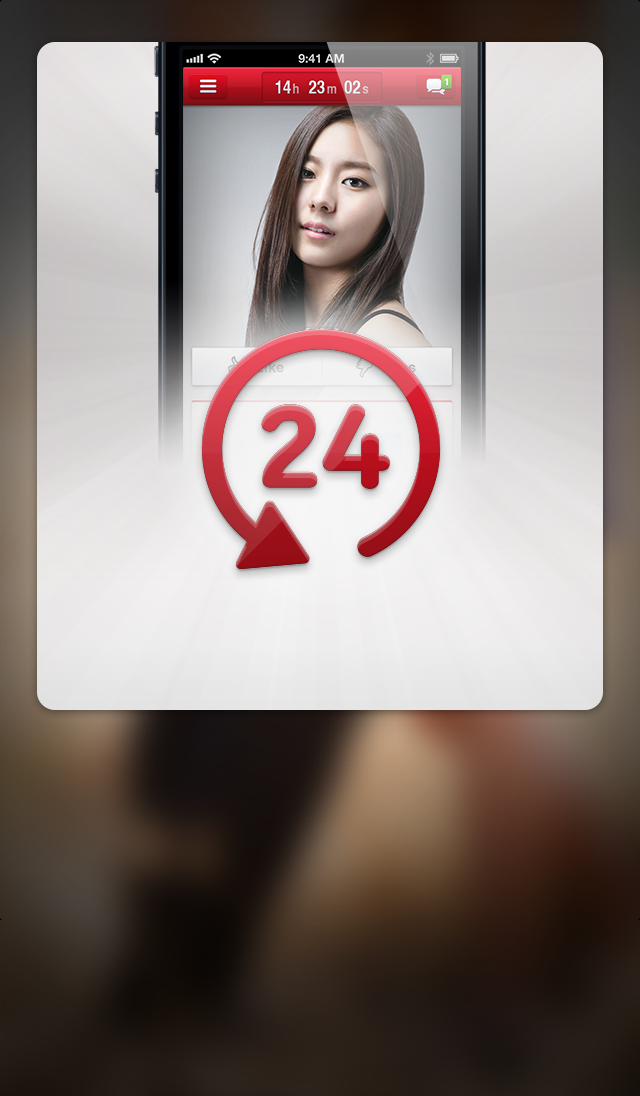
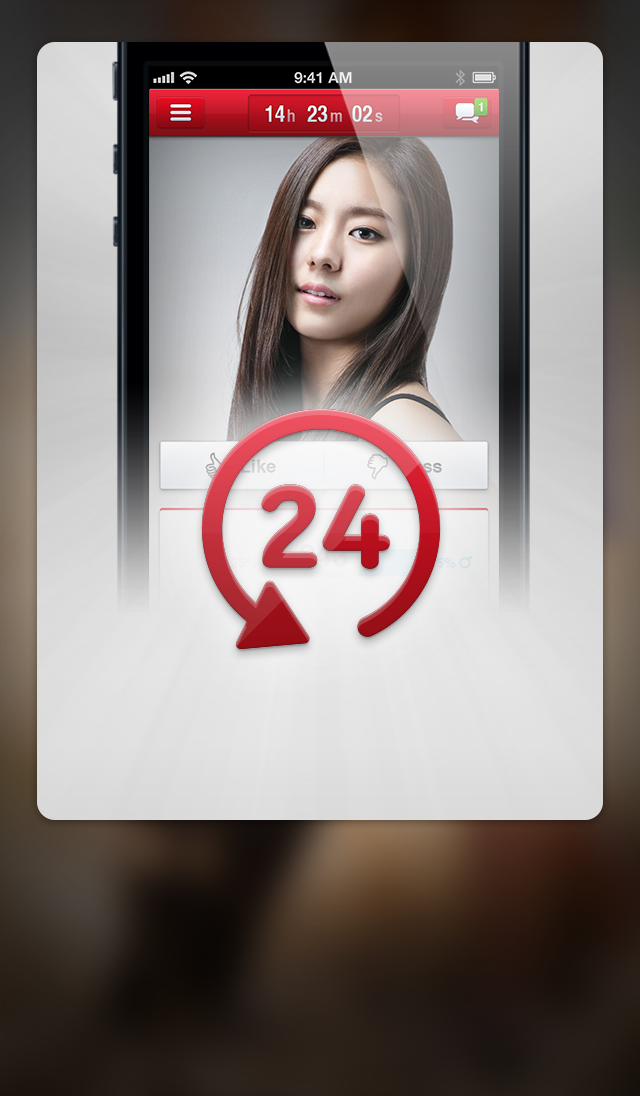
onboarding iphone5 supported

diff --git a/Resources/ui/handheld/Mn_LoginOnBoarding2View.js b/Resources/ui/handheld/Mn_LoginOnBoarding2View.js
@@ -1,5 +1,10 @@
 LoginOnBoarding2View = function() {
 
+	var iphone5Flag = false;
+	if(Ti.Platform.displayCaps.platformHeight === 568) { //iphone 5
+		iphone5Flag = true;
+	}
+	
 	//create component instance
 	var self = Ti.UI.createImageView({
 		left: 0, 
@@ -8,10 +13,15 @@ LoginOnBoarding2View = function() {
 		image: 'images/onboarding-2.png',
 		zIndex: 0,
 	});
-		
+
+	var descriptionYPos = 315;
+	if(iphone5Flag) {
+		descriptionYPos = 355;
+	}
+			
 	var description = Ti.UI.createLabel({
 		text: L('Get a new match every day'),
-		center: {x:'50%', y:315}, //x:67
+		center: {x:'50%', y:descriptionYPos}, //x:67
 		color: '#4e5866',
 		font:{fontWeight:'bold',fontSize:20},
 		zIndex:3,

diff --git a/Resources/ui/handheld/Mn_LoginOnBoarding5View.js b/Resources/ui/handheld/Mn_LoginOnBoarding5View.js
@@ -1,5 +1,10 @@
 LoginOnBoarding5View = function() {
 	
+	var iphone5Flag = false;
+	if(Ti.Platform.displayCaps.platformHeight === 568) { //iphone 5
+		iphone5Flag = true;
+	}
+		
 	//create component instance
 	var self = Ti.UI.createImageView({
 		left: 0, 
@@ -8,10 +13,15 @@ LoginOnBoarding5View = function() {
 		image: 'images/onboarding-5.png',
 		zIndex: 0,
 	});
-		
+
+	var descriptionYPos = 315;
+	if(iphone5Flag) {
+		descriptionYPos = 355;
+	}
+
 	var description = Ti.UI.createLabel({
 		text: L('Chat anonymously'),
-		center: {x:'50%', y:315}, //x:67
+		center: {x:'50%', y:descriptionYPos}, //x:67
 		color: '#4e5866',
 		font:{fontWeight:'bold',fontSize:20},
 		zIndex:3,

diff --git a/Resources/ui/handheld/Mn_LoginOnBoarding3View.js b/Resources/ui/handheld/Mn_LoginOnBoarding3View.js
@@ -13,11 +13,10 @@ LoginOnBoarding3View = function() {
 		image: 'images/onboarding-3.png',
 		zIndex: 0,
 	});
-
-			
+	
 	var descriptionYPos = 315;
 	if(iphone5Flag) {
-		descriptionYPos = 365;
+		descriptionYPos = 355;
 	}
 		
 	var description = Ti.UI.createLabel({

diff --git a/Resources/ui/handheld/Mn_LoginOnBoarding4View.js b/Resources/ui/handheld/Mn_LoginOnBoarding4View.js
@@ -18,7 +18,7 @@ LoginOnBoarding4View = function() {
 	var description2YPos = 315;
 	if(iphone5Flag) {
 		description1YPos = 325;
-		description2YPos = 365;
+		description2YPos = 355;
 	}
 	
 	var description1 = Ti.UI.createLabel({
